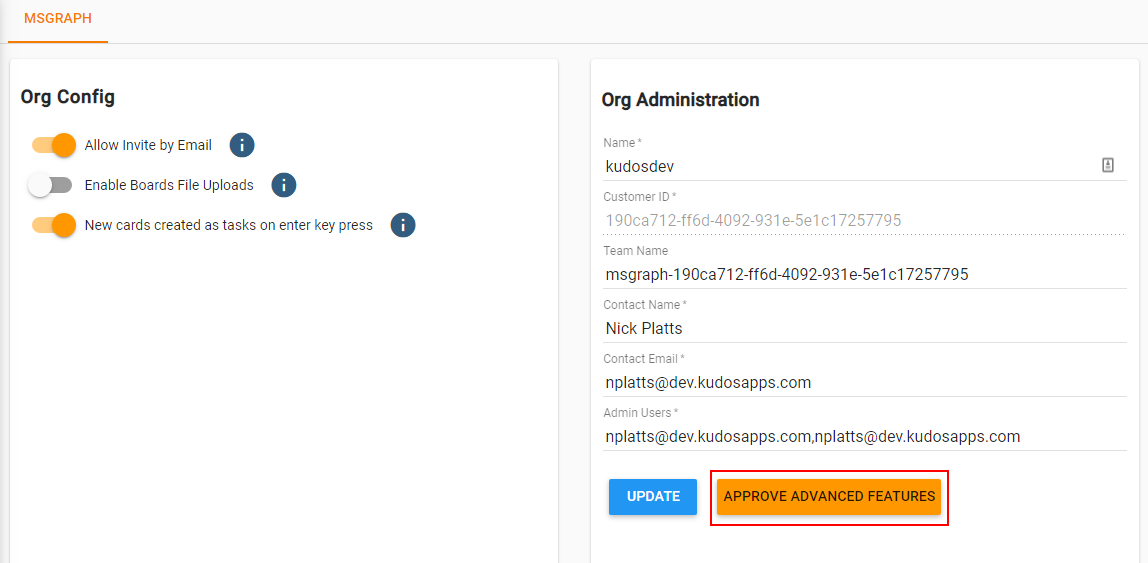
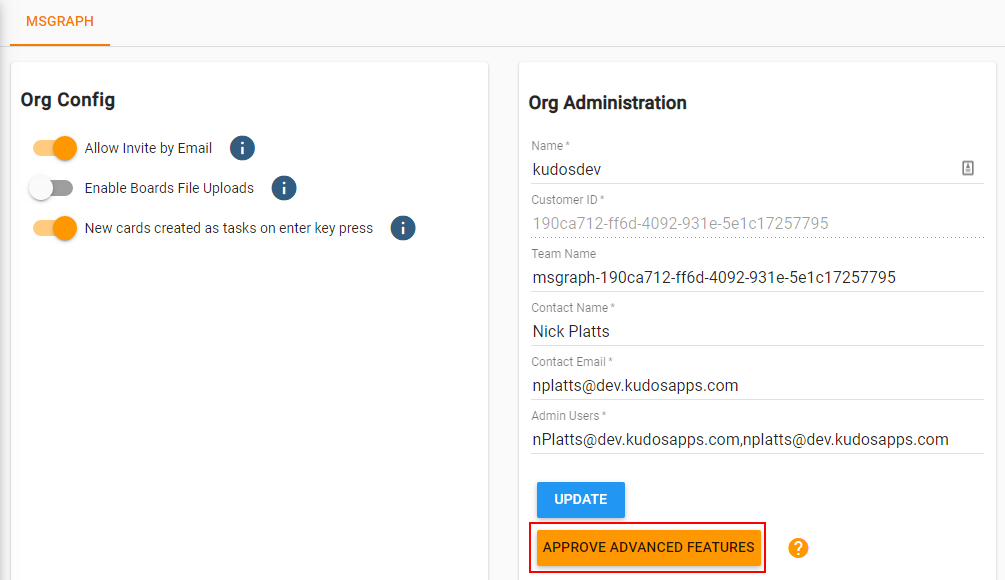
minor changes to office365 troubleshooting page

diff --git a/docs/boards/troubleshooting/office365.md b/docs/boards/troubleshooting/office365.md
@@ -34,4 +34,6 @@ Under the Org Administration section, click the `Approve Advanced Features` butt
 
 ![](/assets/boards/org-admin-approve-advanced.png)
 
-This will direct you to the same Microsoft Office 365 "Permissions requested - Accept for your organisation" screen as shown above, allowing you to force the consent of all permissions that Kudos Boards needs for your organisation.
+This will direct you to the Microsoft Office 365 **Permissions requested - Accept for your organisation** page, allowing you to force the consent of all permissions that Kudos Boards needs for your organisation:
+
+![Admin Approval View](../../assets/msgraph/administrator_approval_view.png)
